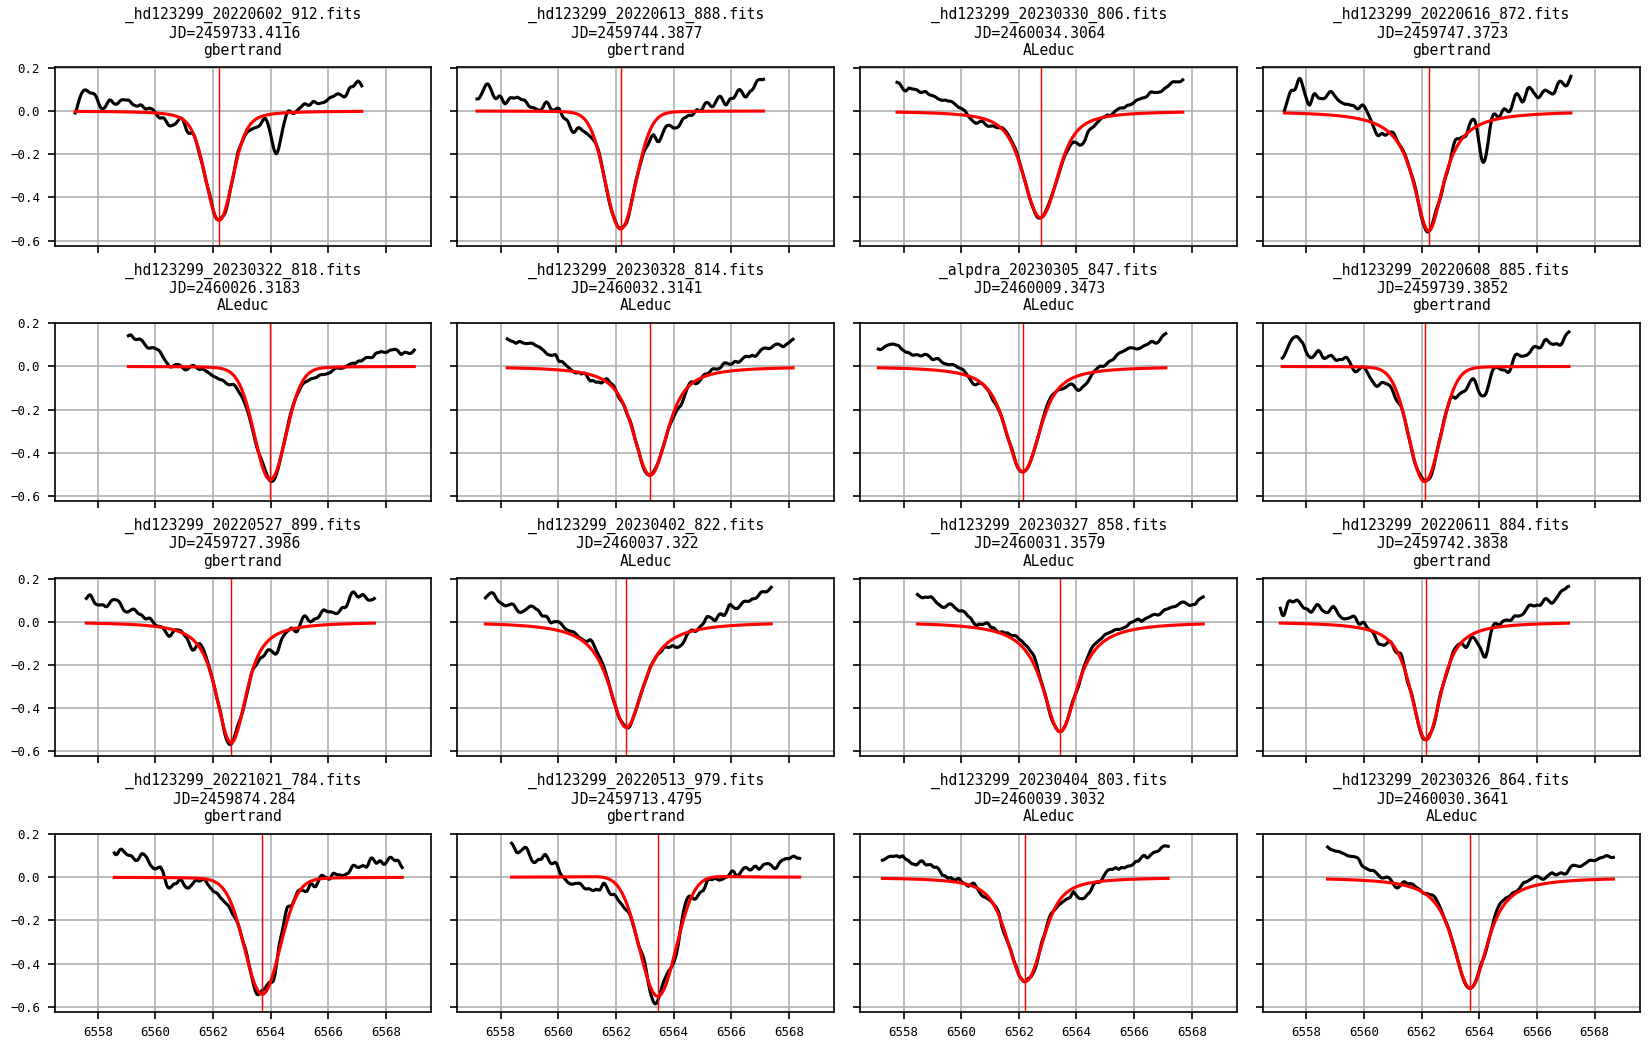
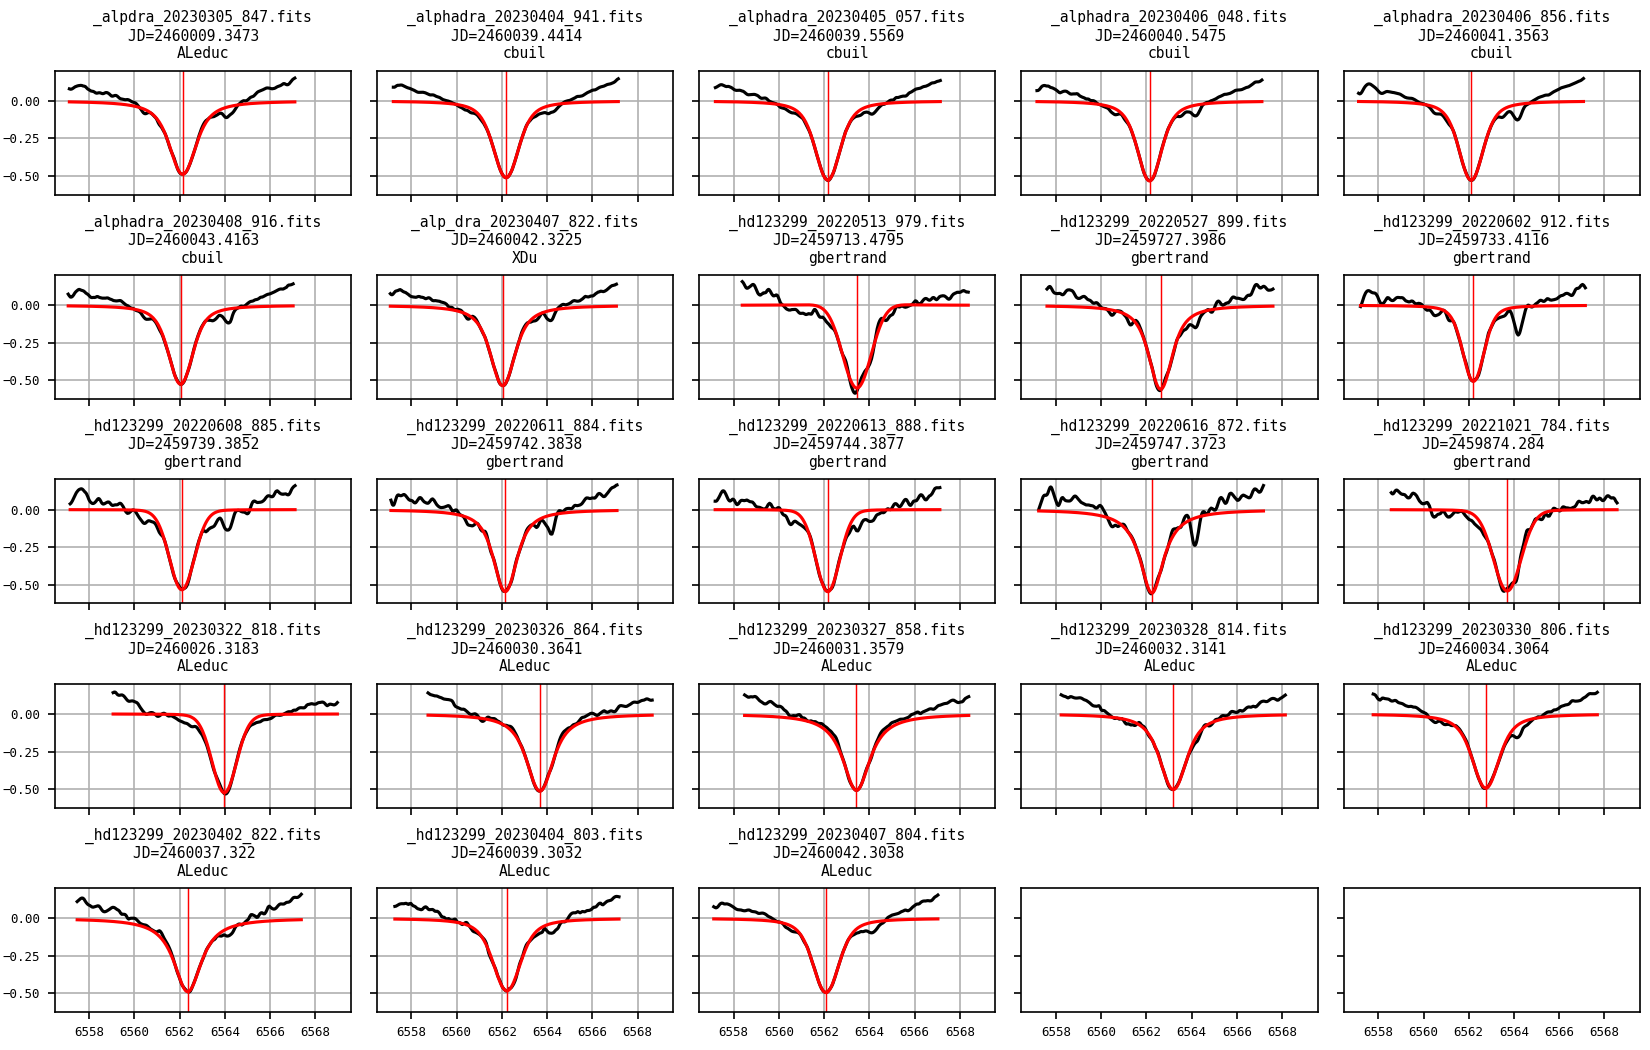
fix

Changed region(s): [[0.0, 0.0, 1.0, 1.0], [0.9891, 0.7314, 1.0, 0.7619]]

diff --git a/bss.py b/bss.py
@@ -61,7 +61,7 @@ def extractObservations(specs, period = None):
     if __debug_mode__:
         plt.rcParams['font.size'] = '6'
         plt.rcParams['font.family'] = 'monospace'
-        fig, axs = plt.subplots(math.ceil(len(specs)/4), math.ceil(len(specs)/4), figsize=(11,7), sharex=True, sharey=True)
+        fig, axs = plt.subplots(5,5, figsize=(11,7), sharex=True, sharey=True)
     
     obs = {}
     i = 0
@@ -142,9 +142,13 @@ def findCenterOfLine(spectrum,ax,dispersion):
                                     'CRPIX1': header['CRPIX1']})
         flux= specdata * u.Jy
         s = Spectrum1D(flux=flux, wcs=wcs_data)
+        
  
-        ipeak = s.flux.argmin()
-        xpeak = s.spectral_axis[ipeak].to(u.AA)
+        # [2:-2] > Hack to excude first and last value of the spectra.
+        # Sometimes fist value for the intensity is equal to 0.00 and prevents finding the true minima.
+        # Ex : sample/alphadra/_alphadra_20230406_856.fits
+        ipeak = s.flux[2:-2].argmin() 
+        xpeak = s.spectral_axis[ipeak+2].to(u.AA)
 
         w1 = float(conf['spectral_region']) / 2
         w2 = float(conf['window_width']) /2
